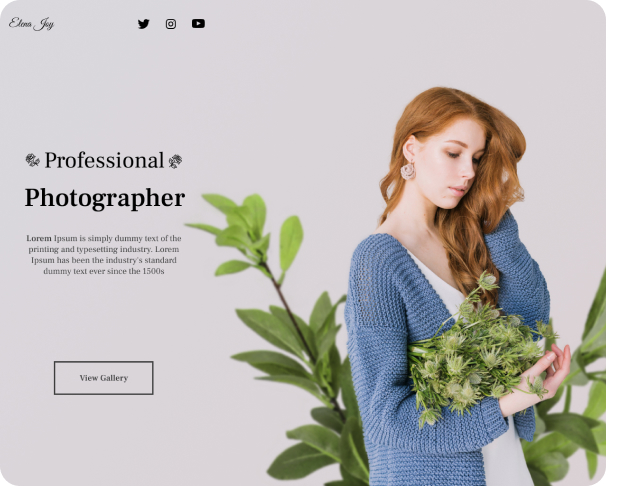
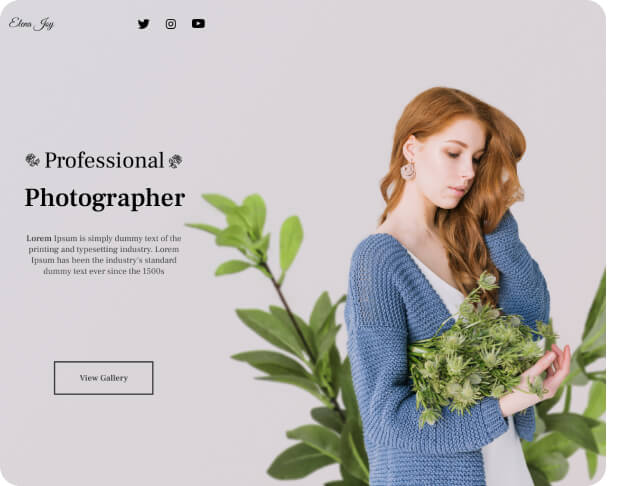
Modified links and optimized images

diff --git a/index.html b/index.html
@@ -47,14 +47,18 @@
             <h2>Software Engineer</h2>
           </header>
           <p>
-            Lorem ipsum dolor sit amet consectetur adipisicing elit. Eligendi,
-            sit?
+            Passionate full stack web developer aiming to serve others with my
+            God-given abilities.
           </p>
           <div class="intro-links-container">
-            <a href="#"
+            <a
+              href="https://www.linkedin.com/in/kumar-etwaroo-87722a7b/"
+              target="_blank"
               ><img src="./icons/linked-in.svg" alt="linkedin-social-media"
             /></a>
-            <a href="#"><img src="./icons/github.svg" alt="github-lin" /></a>
+            <a href="https://github.com/kumar100966" target="_blank"
+              ><img src="./icons/github.svg" alt="github-lin"
+            /></a>
           </div>
         </div>
         <div class="intro-imgs-container">
@@ -276,17 +280,26 @@
       <ul>
         <li>
           <a href="/"
-            ><img src="./icons/instagram 1.svg" alt="instagram-social-media"
+            ><img
+              src="./icons/instagram 1.svg"
+              alt="instagram-social-media"
+              title="instagram-social-media"
           /></a>
         </li>
         <li>
           <a href="/"
-            ><img src="./icons/twitter 1.svg" alt="twitter-social-media"
+            ><img
+              src="./icons/twitter 1.svg"
+              alt="twitter-social-media"
+              title="twitter-social-media"
           /></a>
         </li>
         <li>
           <a href="/"
-            ><img src="./icons/youtube-symbol 1.svg" alt="youtube-social-media"
+            ><img
+              src="./icons/youtube-symbol 1.svg"
+              alt="youtube-social-media"
+              title="youtube-social-media"
           /></a>
         </li>
       </ul>

diff --git a/contact/index.html b/contact/index.html
@@ -57,12 +57,18 @@
       <ul>
         <li>
           <a href="/"
-            ><img src="../icons/instagram 1.svg" alt="instagram-social-media"
+            ><img
+              src="../icons/instagram 1.svg"
+              alt="instagram-social-media"
+              title="instagram-social-media"
           /></a>
         </li>
         <li>
           <a href="/"
-            ><img src="../icons/twitter 1.svg" alt="twitter-social-media"
+            ><img
+              src="../icons/twitter 1.svg"
+              alt="twitter-social-media"
+              title="twitter-social-media"
           /></a>
         </li>
         <li>
@@ -70,6 +76,7 @@
             ><img
               src="../icons/youtube-symbol 1.svg"
               alt="youtube-social-media"
+              title="youtube-social-media"
           /></a>
         </li>
       </ul>

diff --git a/projects/index.html b/projects/index.html
@@ -67,12 +67,18 @@
       <ul>
         <li>
           <a href="/"
-            ><img src="../icons/instagram 1.svg" alt="instagram-social-media"
+            ><img
+              src="../icons/instagram 1.svg"
+              alt="instagram-social-media"
+              title="instagram-social-media"
           /></a>
         </li>
         <li>
           <a href="/"
-            ><img src="../icons/twitter 1.svg" alt="twitter-social-media"
+            ><img
+              src="../icons/twitter 1.svg"
+              alt="twitter-social-media"
+              title="twitter-social-media"
           /></a>
         </li>
         <li>
@@ -80,6 +86,7 @@
             ><img
               src="../icons/youtube-symbol 1.svg"
               alt="youtube-social-media"
+              title="youtube-social-media"
           /></a>
         </li>
       </ul>
